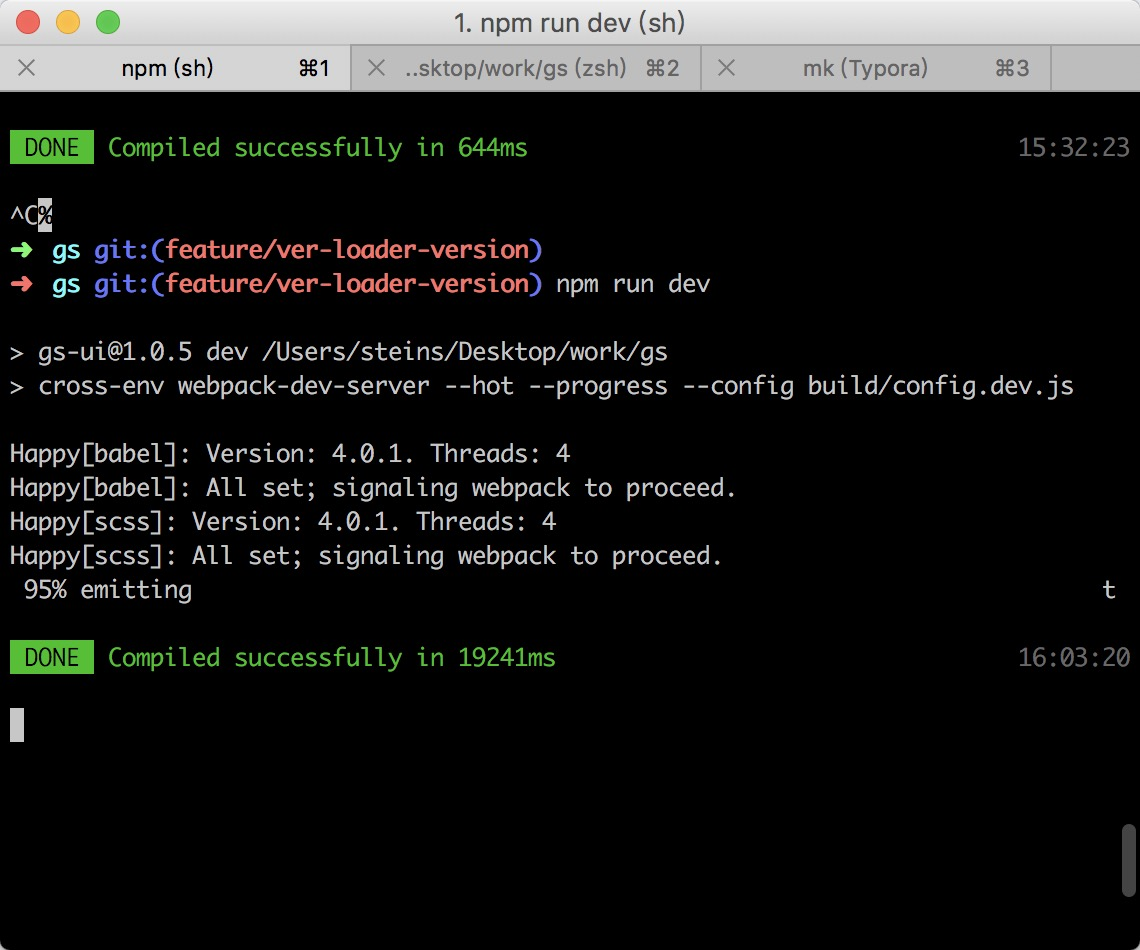
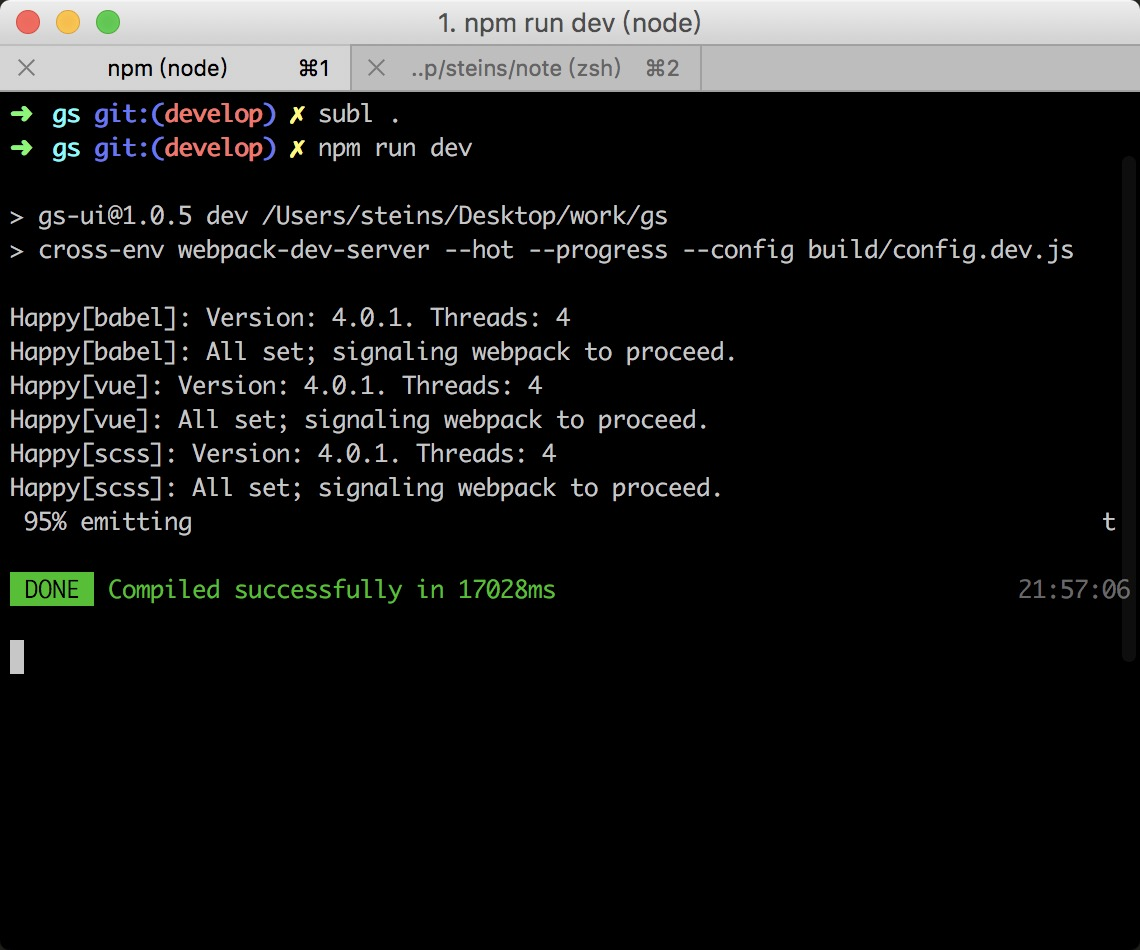
update

diff --git a/2018-02-09__组件库打包优化.md b/2018-02-09__组件库打包优化.md
@@ -2,7 +2,7 @@
 
 #### 背景
 
-在公司的主要工作是组件库（基于vue的ui组件库，类似element-ui）的开发，也已经有两个多月，期间一直觉得项目的开发构建太慢，每次开发打开开发环境需要 ***40s*** 左右，简直不能忍。前前后后尝试了各种优化手段，但是都不理想。终于在今天，找到了问题所在，构建速度提升了 ***50%*** 以上，现在只需要 ***19s*** 左右，整个心情都好了。现在记录一下所用到的各种优化手段。
+在公司的主要工作是组件库（基于vue的ui组件库，类似element-ui）的开发，也已经有两个多月，期间一直觉得项目的开发构建太慢，每次开发打开开发环境需要 ***40s*** 左右，简直不能忍。前前后后尝试了各种优化手段，但是都不理想。终于在今天，找到了问题所在，构建速度提升了 ***50%*** 以上，现在只需要 ***17s*** 左右，整个心情都好了。现在记录一下所用到的各种优化手段，因为是开发环境，所以只考虑构建速度。
 
 #### 各种配置项的优化
 
@@ -21,13 +21,18 @@
   module: {
     rules: [{
       test: /\.vue$/,
-      use: 'happypack/loader?id=vue',
+      loader: 'vue-loader',
+      options: {
+        css: 'style-loader!css-loader!sass-loader',
+        // vue文件中基本不存在css代码，所以只把js交给happypack处理
+        js: 'happypack/loader?id=vue'
+      }
+    }, {
+      test: /\.js$/,
+      use: 'happypack/loader?id=babel',
       exclude: /node_modules/,
       // components目录是组件，examples目录主要是markdown文档，test目录是单元测试
       include: [utils.resolve('./components'), utils.resolve('./examples'), utils.resolve('./test')]
-    }, {
-      test: /\.js$/,
-      use: 'happypack/loader?id=babel'
     }, {
       test: /\.scss$/,
       use: 'happypack/loader?id=scss'
@@ -36,6 +41,11 @@
   plugins: [
     new HappyPack({
       id: 'babel',
+      threads: 4,
+      loaders: ['babel-loader']
+    }),
+    new HappyPack({
+      id: 'vue',
       threads: 4,
       loaders: ['babel-loader']
     }),
@@ -63,9 +73,9 @@
 
 这里主要将组件库中各种需要处理的文件都采用happypack处理，除了上面的 `js` `scss` `vue` 之外，也把 `md` （[vue-markdown-loader](https://github.com/QingWei-Li/vue-markdown-loader)）等进行处理，配置都差不多，就不列出来了。
 
-ok，配置完毕，赶紧跑起来试试水。结果就是报错了... oh no! 看了下[官方文档](https://github.com/amireh/happypack/wiki/Loader-Compatibility-List)说明，不支持 `vue-loader` `vue-markdown-loader`。好吧，把 `vue` 文件和 `md` 文件的处理改回去，再跑。嗯这次跑起来了，但是时间也就少了 `2s` 左右（其实我觉得是一些小波动，根本没少好吧），还那么多... ???(黑人问号脸)
+ok，配置完毕，赶紧跑起来试试水。结果就是报错了... oh no! 看了下[官方文档](https://github.com/amireh/happypack/wiki/Loader-Compatibility-List)说明，不支持 `vue-markdown-loader`。好吧，把 `md` 文件的处理改回去，再跑。嗯这次跑起来了，但是时间也就少了 `4s-5s` 左右，emmmmm，怎么没想象中多。
 
-主要是项目中js代码还是比较少的，将运行的命令加上--progress能发现，主要耗时的就是处理md文件，很明显一遇到 `md` 文件进度条的跳动就慢下来了。
+将运行的命令加上--progress能发现，主要耗时的就是处理 `md` 文件，很明显一遇到 `md` 文件进度条的跳动就慢下来了。
 
 知道了，优化的主要目标应该是md文件的处理。
 
@@ -165,7 +175,7 @@ module.exports = merge(base, {
 
 这样，在项目中 `webpack` 处理 `vue` `vue-router` `vue-i18n` `clipboard`时，就不会去`node_modules`中拿了，会直接用 `vendor.js`
 
-再次运行 `npm run dev` 发现时间也只少了 `1s`(我还是觉得是时间的小波动...) 毕竟大头不在这。
+再次运行 `npm run dev` 发现时间也只少了 `1s`(我觉得其实是时间的小波动...根本不会少的) 毕竟大头不在这。
 
 #### 单组件的开发模式
 
@@ -319,9 +329,15 @@ if (process.env.RUN_ENV === 'component') {
 
 把他们项目的`src`和`docs`目录copy了过来，同样把我们的配置修改一些配置 `entry` `alias` 再加点loader，他们需要处理`yml`文件，跑起来看看。结果更纳闷了，时间是40s（再次问号脸）。最后在我们的项目中，用他们的配置去跑他们的项目，我这想验证一件事，***会不会是某个依赖的版本不同引起的***，结果确实是这么回事...
 
-接下来就是找出是哪个依赖带来的了，这里需要注意一点`package.json`中依赖的版本 如`^1.0.0`，以 `^` 开头的依赖，安装时总是会按照这个大版本下的最新版本的 也就是 `^1.0.0` `^1.1.0` 都是装 `1.x` 下的最新版本。而 `^1.0.0`和`^2.0.0` 才是不一样的。最后主要尝试的几个不同版本依赖主要有 `webpack`(2.x和3.x) `vue-markdown-loader`(1.x和2.x)，但是这两个换掉之后还是很慢，最后在同事的提醒下，可能是 `vue-loader` 因为 `vue-markdown-loader` 是依赖 `vue-loader`的，而且无论是 `1.x`还是`2.x` 都是用的 vue-loader `12.x` 的版本，而我们用的是 `13.x` 最后功夫不负有心人，是从 `vue-loader` 的 `v13.1.0` 开始， `vue-markdown-loader` 会变慢。
+接下来就是找出是哪个依赖带来的了，这里需要注意一点`package.json`中依赖的版本 如`^1.0.0`，以 `^` 开头的依赖，安装时总是会按照这个大版本下的最新版本的 也就是 `^1.0.0` `^1.1.0` 都是装 `1.x` 下的最新版本。而 `^1.0.0`和`^2.0.0` 才是不一样的。最后主要尝试的几个不同版本依赖主要有 `webpack`(2.x和3.x) `vue-markdown-loader`(1.x和2.x)，但是这两个换掉之后还是很慢，最后在同事的提醒下，可能是 `vue-loader` 因为 `vue-markdown-loader` 是依赖 `vue-loader`的，而且无论是 `1.x`还是`2.x` 都是用的 vue-loader `12.x` 的版本，而我们用的是 `13.x` 最后功夫不负有心人，是从 `vue-loader` 的 `v13.1.0` 开始， 构建速度会变慢。
 
-> 最后优化后的构建速度 `19s`
+#### 变慢的原因
+
+***下面这个结果是公司的一位牛人发现的***
+
+最后发现是 `v13.1.0` 以上的 `vue-loader` 采用 `prettier` 来格式代码，替代了原来的 `js-beautify`， 是这个导致了性能问题。
+
+> 最后优化后的构建速度 `16-17s`，结果还是比较理想的，
 
 ![final](./imgs/final.jpeg)
 
@@ -329,4 +345,4 @@ if (process.env.RUN_ENV === 'component') {
 
 最后发现是依赖版本带来的构建性能问题，不能算是webpack构建的优化。算是一个踩坑吧
 
-其他在项目中可以用到的优化点应该主要就是 `happypack` `dll`了，其他还需要多多尝试
+其他在项目中可以用到的优化点应该主要就是 `happypack` `dll`了，能够有效的提升构建速度，其他还需要多多尝试
